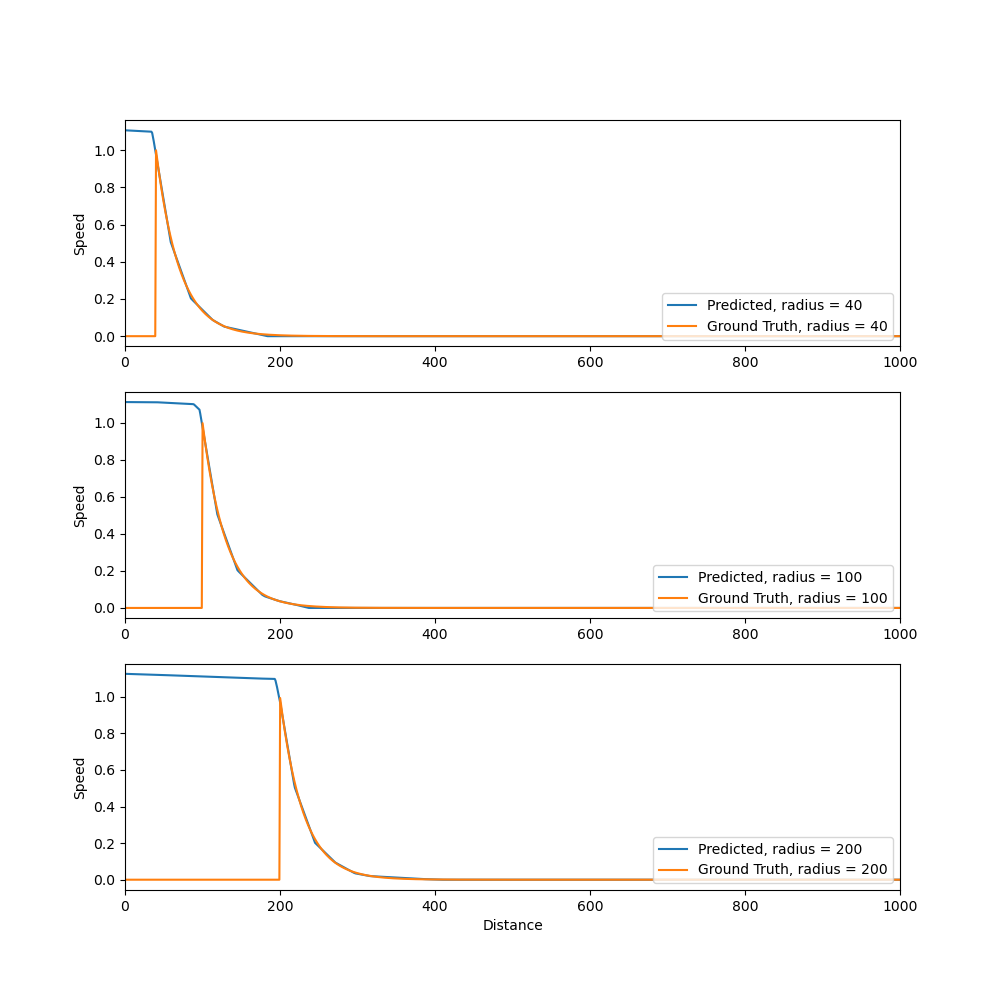
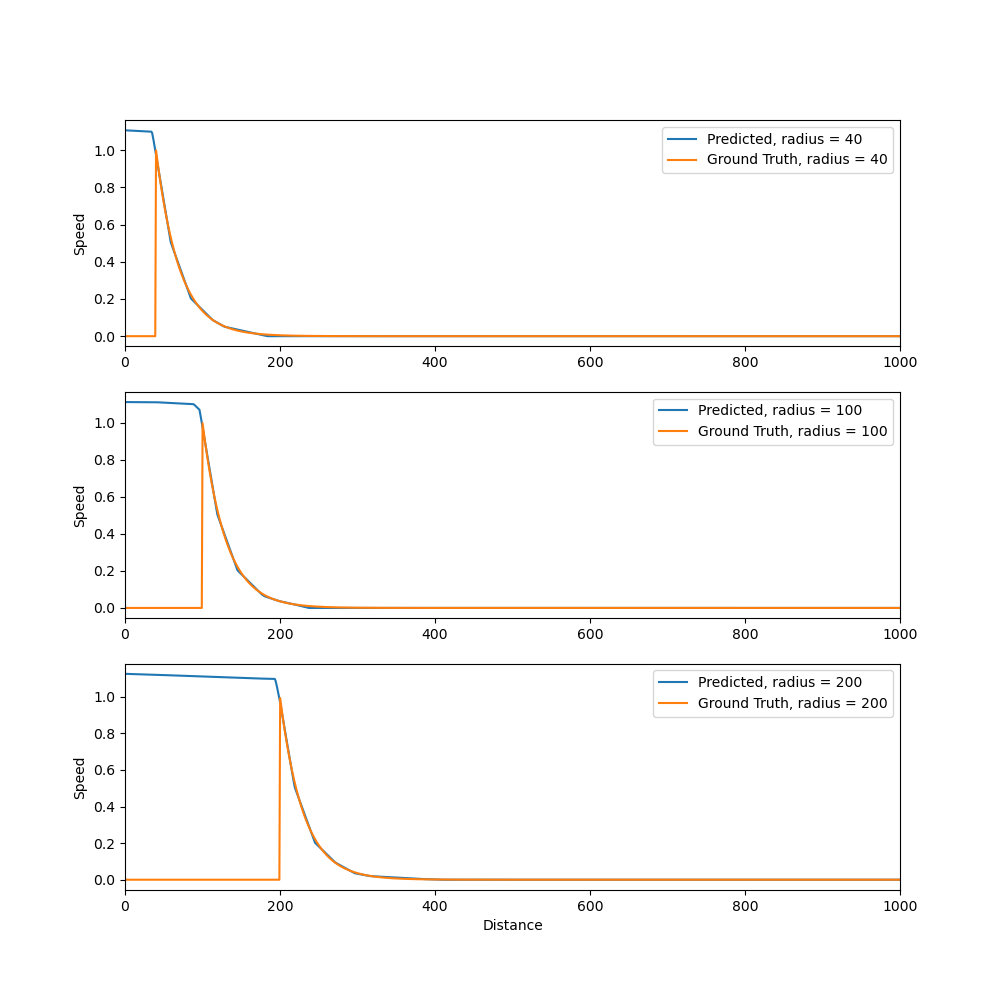
redid plot for better legend location

diff --git a/nn_training.py b/nn_training.py
@@ -473,22 +473,3 @@ if perform_training is True:
 
 if perform_training is True and tensorboard_logging is True:
     writer.flush()
-
-
-x = np.linspace(0, size_of_universe/2, 1000).reshape((-1, 1))
-fig, axs = plt.subplots(3, figsize=(10, 10))
-j = 0
-for radius in [40, 100, 200]:
-    radii = torch.ones(np.shape(x)).to(DEVICE).float() * radius
-    speeds = model.forward_obstacle(torch.tensor(x).to(DEVICE).float(), radii).detach().cpu().numpy()
-    gt_speeds = vfields._obstacle_list(x, radius)
-    axs[j].plot(x, speeds, label=f'Predicted, radius = {radius}')
-    axs[j].plot(x, gt_speeds, label=f'Ground Truth, radius = {radius}')
-    axs[j].set_ylabel('Speed')
-    axs[j].set_xlim((0, 1000))
-    axs[j].legend(loc=1)
-    j += 1
-plt.xlabel('Distance')
-plot_dir = os.path.join('plots', f'{10000}_planets_{save_model_name}')
-plt.savefig(plot_dir)
-plt.close()
